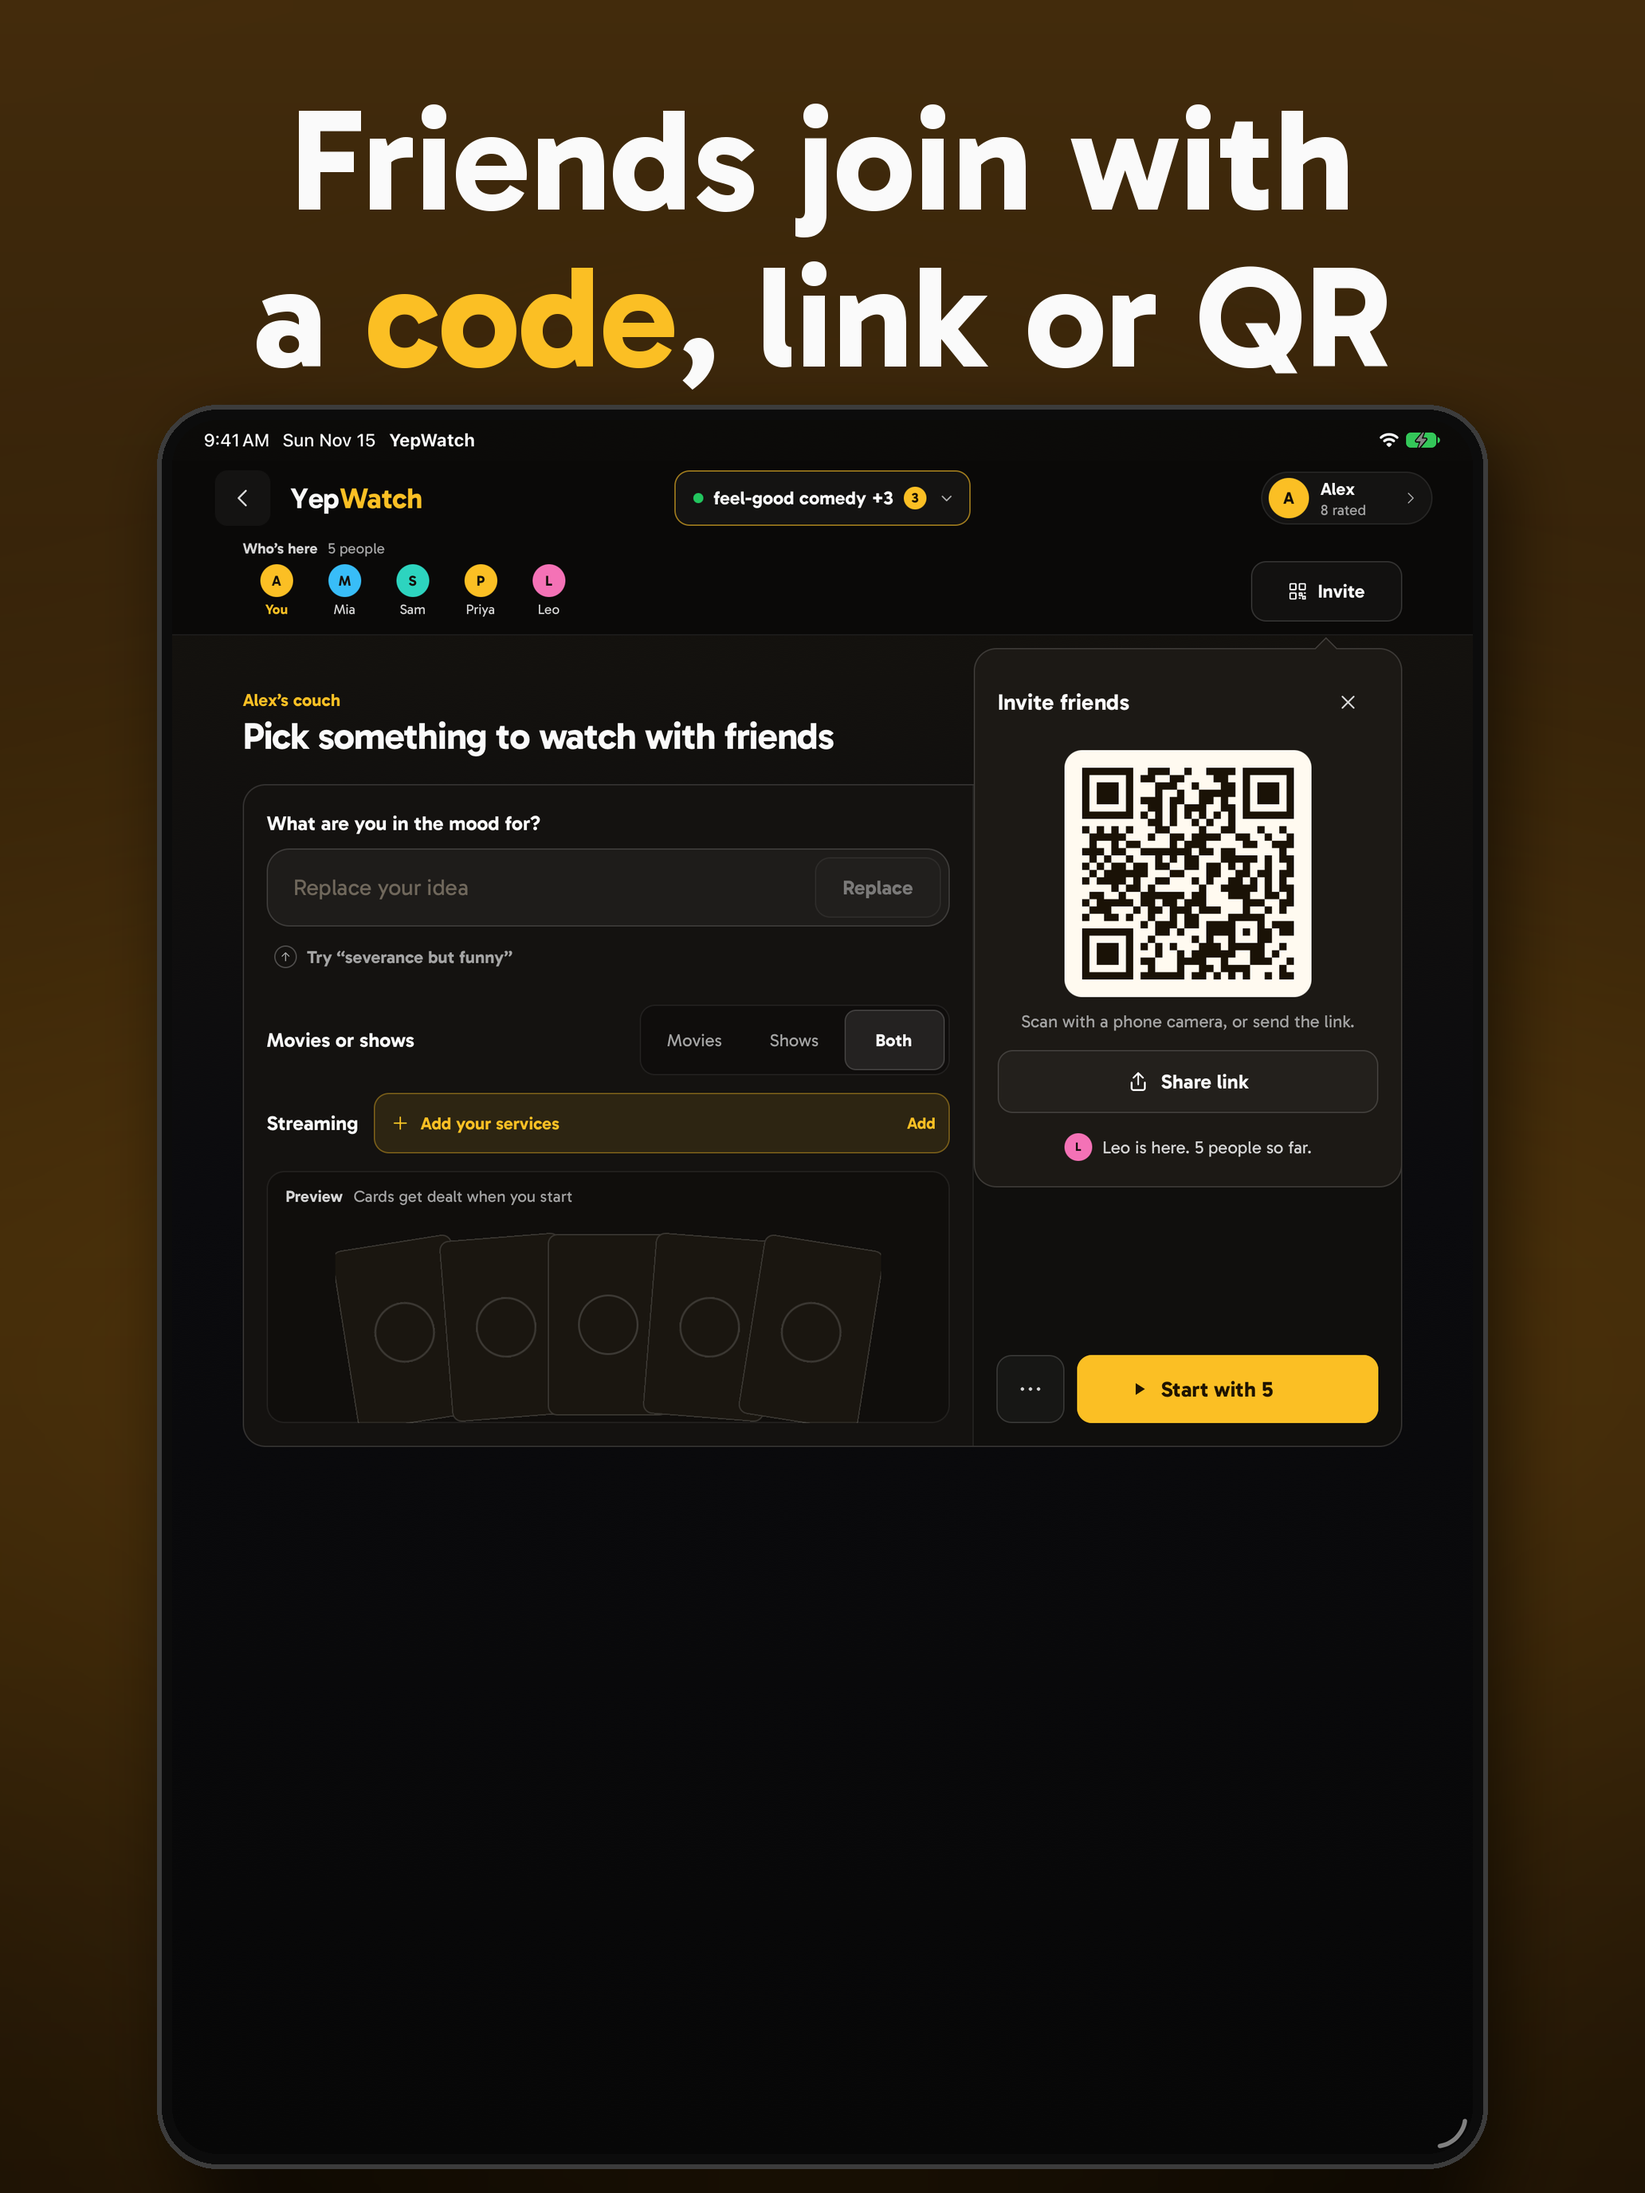
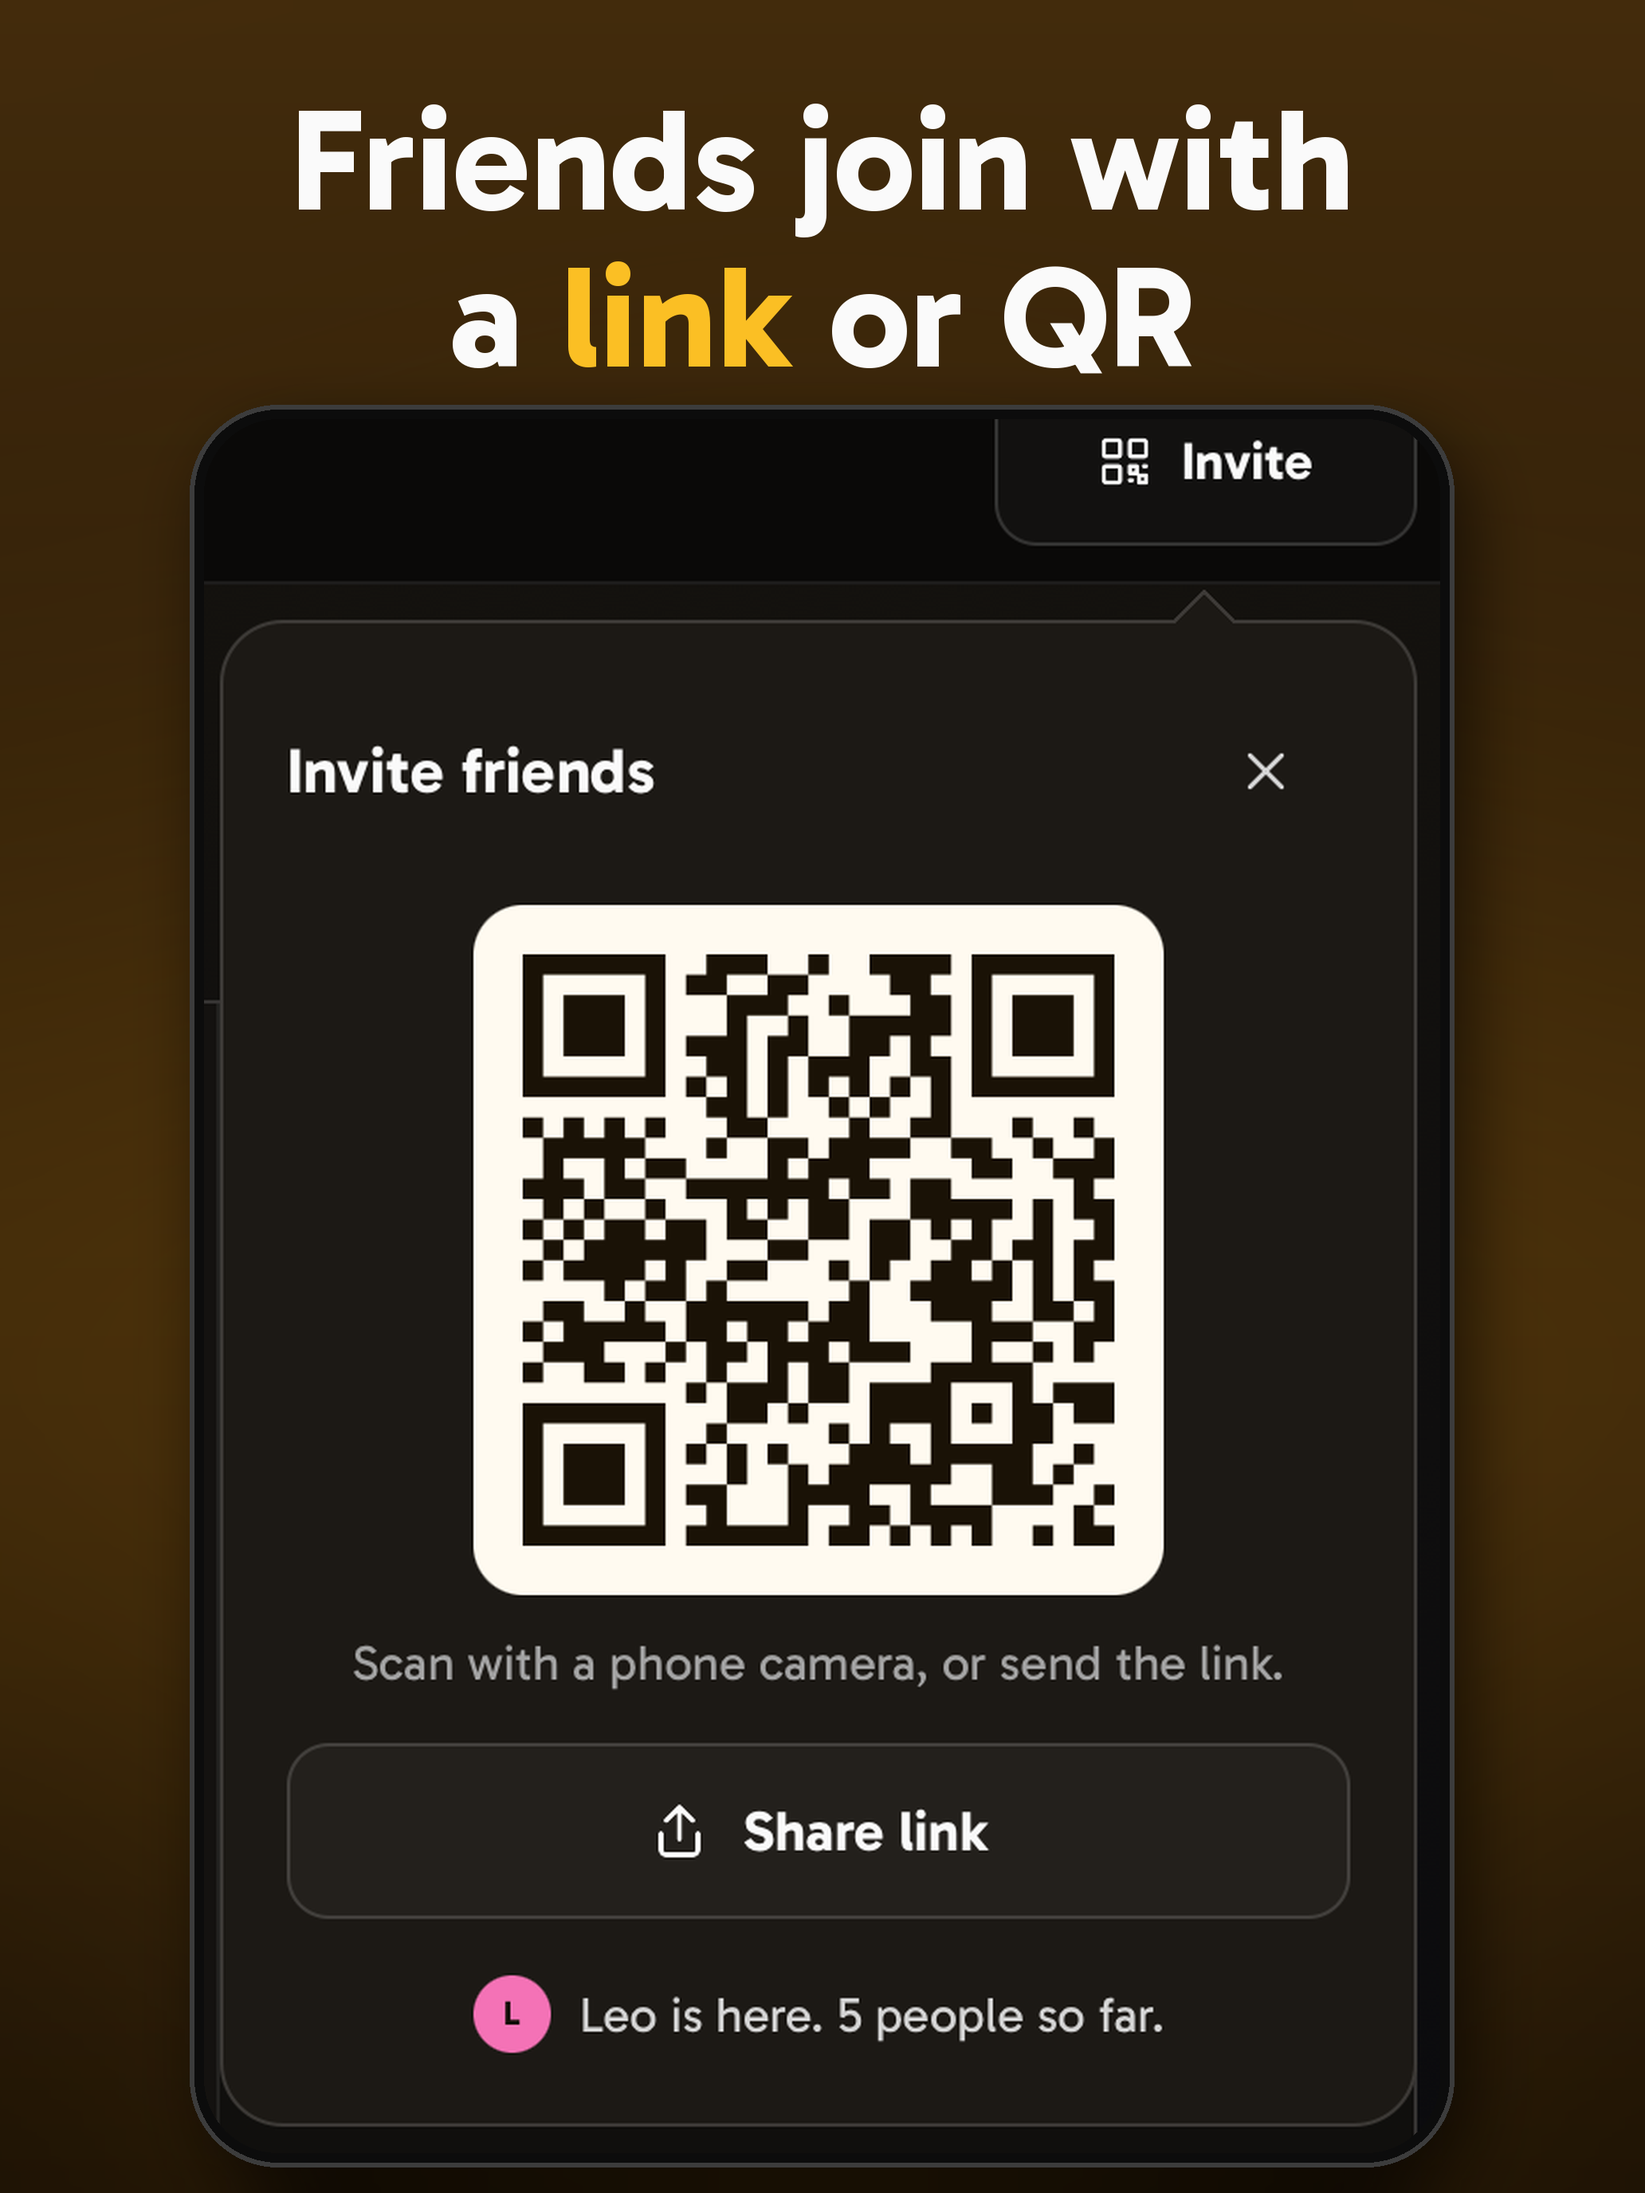
chore(yepwatch): simplify crowded couch store frames
The couch setup frames showed the whole console and read as clutter at
store thumbnail size. They now show one enlarged crop of a real capture:
the Invite sheet on phones ("Bring your people."), the Ideas column on
iPad ("One idea each."), and the Invite popover on the iPad invite frame.
compose-store-gallery.py gains a crop option; upload-apple-gallery.cjs
gains --changed to replace only differing screenshots. Four App Store
screenshots replaced and read back; not submitted for review.

Claude-Session: https://claude.ai/code/session_01PgmQvvhW6V65YE7DmhVbV8

diff --git a/yepwatch-app/scripts/compose-store-gallery.py b/yepwatch-app/scripts/compose-store-gallery.py
@@ -1,6 +1,9 @@
 """Store frames: a caption headline over one unretouched native screenshot, on a YepWatch-palette background.
 
-The screenshot is scaled as a whole (never cropped, edited or redrawn); only the frame around it is drawn here.
+The screenshot is scaled as a whole, or, with "crop", one rectangle of it is enlarged (never edited or redrawn);
+only the frame around it is drawn here. "crop": [x0, y0, x1, y1] as fractions of the screenshot. Edges that are real
+screen edges keep the device bezel; cut edges fade into the background ("cropStyle": "fade") or the crop sits on a
+rounded card ("cropStyle": "card"). "zoomWidth" is the share of the frame width the enlarged crop may fill.
 Usage: python3 scripts/compose-store-gallery.py store/gallery-rethink.json [--only android]
 Spec: {"families": {"<family>": {"size": [w, h], "out": "store/assets/<dir>", "frames": [
   {"file": "gallery-01-x.png", "source": "<native png>", "caption": ["Line one", "line *two*"], "bg": "amber", "tilt": 0}]}}}
@@ -79,6 +82,8 @@ def frame(spec, size, source):
     canvas = gradient(size, style['top'], style['bottom']).convert('RGBA')
     glow(canvas, (int(w * 0.5), int(h * 0.62)), int(w * 0.55), style['glow'], 90)
     shot = Image.open(source).convert('RGB')
+    if spec.get('crop'):
+        return cropped_frame(spec, size, shot, canvas, style)
     caption_h = int(h * spec.get('captionShare', 0.19))
     margin = int(h * 0.025)
     avail_h = h - caption_h - margin * 2
@@ -98,6 +103,63 @@ def frame(spec, size, source):
     tilt = spec.get('tilt', 0)
     if tilt:
         panel = panel.rotate(tilt, resample=Image.BICUBIC, expand=True)
+    x = (w - panel.width) // 2
+    y = caption_h + margin + (avail_h + border * 2 - panel.height) // 2
+    shadow = Image.new('RGBA', canvas.size, (0, 0, 0, 0))
+    shadow.paste((0, 0, 0, 150), (x + int(w * 0.01), y + int(h * 0.012)), panel.split()[3])
+    canvas.alpha_composite(shadow.filter(ImageFilter.GaussianBlur(int(w * 0.02))))
+    canvas.alpha_composite(panel, (x, y))
+    caption(canvas, spec['caption'], style, margin, caption_h)
+    return canvas.convert('RGB')
+
+
+def fade_mask(size, cuts, share):
+    """Alpha mask that ramps to 0 on the cut sides ('l', 't', 'r', 'b')."""
+    w, h = size
+    mask = Image.new('L', size, 255)
+    ramp = max(1, int(min(w, h) * share))
+    px = mask.load()
+    for y in range(h):
+        for x in range(w):
+            a = 1.0
+            if 'l' in cuts: a = min(a, x / ramp)
+            if 'r' in cuts: a = min(a, (w - 1 - x) / ramp)
+            if 't' in cuts: a = min(a, y / ramp)
+            if 'b' in cuts: a = min(a, (h - 1 - y) / ramp)
+            if a < 1:
+                px[x, y] = int(255 * max(0.0, a) ** 1.4)
+    return mask
+
+
+def cropped_frame(spec, size, shot, canvas, style):
+    w, h = size
+    x0, y0, x1, y1 = spec['crop']
+    box = (round(x0 * shot.width), round(y0 * shot.height), round(x1 * shot.width), round(y1 * shot.height))
+    part = shot.crop(box)
+    caption_h = int(h * spec.get('captionShare', 0.19))
+    margin = int(h * 0.025)
+    avail_h = h - caption_h - margin * 2
+    avail_w = int(w * spec.get('zoomWidth', 0.92))
+    scale = min(avail_h / part.height, avail_w / part.width)
+    sw, sh = round(part.width * scale), round(part.height * scale)
+    part = part.resize((sw, sh), Image.LANCZOS)
+    cuts = ''.join(side for side, cut in (('l', x0 > 0), ('t', y0 > 0), ('r', x1 < 1), ('b', y1 < 1)) if cut)
+    card = spec.get('cropStyle', 'fade') == 'card'
+    # Device bezel scaled with the zoom, so the enlarged screen still reads as a phone or tablet.
+    radius = int(shot.width * scale * (0.075 if shot.width / shot.height < 0.6 else 0.035))
+    if card:
+        radius = int(min(sw, sh) * 0.06)
+    border = max(4, int(sw * 0.012))
+    panel = Image.new('RGBA', (sw + border * 2, sh + border * 2), (0, 0, 0, 0))
+    pd = ImageDraw.Draw(panel)
+    pd.rounded_rectangle([0, 0, panel.width - 1, panel.height - 1], radius=radius + border, fill=(12, 12, 12, 255), outline=(60, 60, 60, 255), width=max(1, border // 3))
+    mask = Image.new('L', (sw, sh), 0)
+    ImageDraw.Draw(mask).rounded_rectangle([0, 0, sw - 1, sh - 1], radius=radius, fill=255)
+    panel.paste(part, (border, border), mask)
+    if cuts and not card:
+        alpha = panel.split()[3]
+        from PIL import ImageChops
+        panel.putalpha(ImageChops.multiply(alpha, fade_mask(panel.size, cuts, spec.get('fade', 0.16))))
     x = (w - panel.width) // 2
     y = caption_h + margin + (avail_h + border * 2 - panel.height) // 2
     shadow = Image.new('RGBA', canvas.size, (0, 0, 0, 0))
